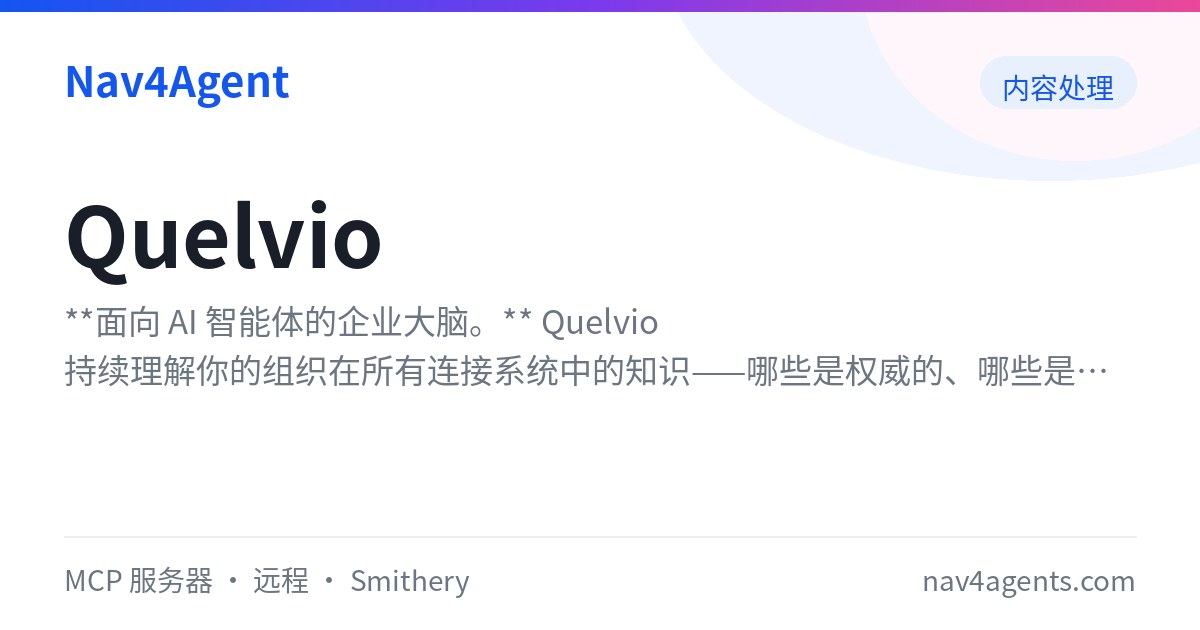
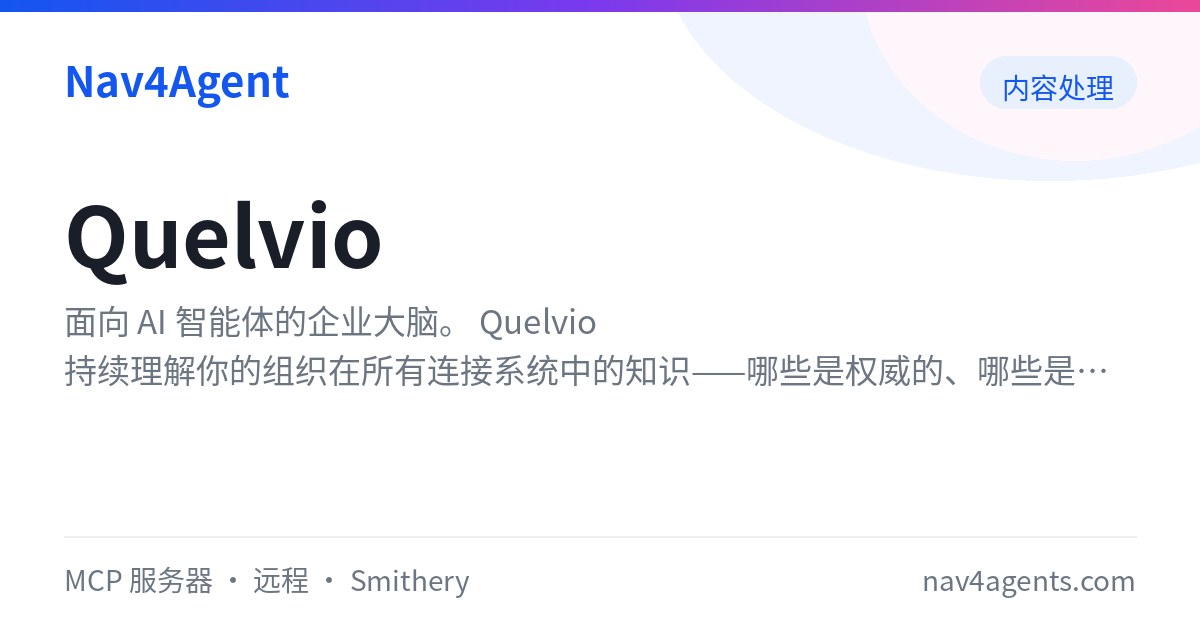
polish: 译文去 Markdown 符号（纯文本展示位）+ 分享图同步更新

Changed region(s): [[0.0308, 0.4825, 0.555, 0.5429]]

diff --git a/src/app/mcp/[slug]/page.tsx b/src/app/mcp/[slug]/page.tsx
@@ -5,7 +5,7 @@ import { ArrowLeft, ExternalLink, Star, Terminal, Zap, Globe, Server, Settings }
 import { getAllMcp } from '@/lib/data/mcp';
 import { getMcpDetail } from '@/lib/data/mcpDetails';
 import { buildMcpMetadata, ogImage } from '@/lib/seo';
-import { pickZh } from '@/lib/i18n';
+import { displayDesc } from '@/lib/i18n';
 import CopyButton from '@/components/CopyButton';
 import FavoriteButton from '@/components/FavoriteButton';
 import HiddenShareImage from '@/components/HiddenShareImage';
@@ -93,7 +93,7 @@ export default function McpDetailPage({ params }: { params: { slug: string } }) 
               <FavoriteButton type="mcp" itemId={mcp.id} />
             </div>
 
-            <p className="text-gray-600 leading-relaxed">{pickZh(mcp.descriptionZh, mcp.description)}</p>
+            <p className="text-gray-600 leading-relaxed">{displayDesc(mcp.descriptionZh, mcp.description)}</p>
           </div>
 
           {/* 工具能力（真实数据） */}
@@ -109,7 +109,7 @@ export default function McpDetailPage({ params }: { params: { slug: string } }) 
                   <div key={i} className="bg-gray-50 rounded-lg px-4 py-3">
                     <code className="text-blue-700 font-mono text-sm font-semibold">{tool.name}</code>
                     {tool.description && (
-                      <p className="text-gray-600 text-sm mt-1 leading-relaxed">{pickZh(tool.descriptionZh, tool.description)}</p>
+                      <p className="text-gray-600 text-sm mt-1 leading-relaxed">{displayDesc(tool.descriptionZh, tool.description)}</p>
                     )}
                   </div>
                 ))}
@@ -153,7 +153,7 @@ export default function McpDetailPage({ params }: { params: { slug: string } }) 
                         {env.name}
                         {env.required && <span className="text-red-500 ml-1" title="必填">*</span>}
                       </code>
-                      <span className="text-gray-500 text-sm">{pickZh(env.descriptionZh, env.description) || '——'}</span>
+                      <span className="text-gray-500 text-sm">{displayDesc(env.descriptionZh, env.description) || '——'}</span>
                     </div>
                   ))}
                 </div>

diff --git a/src/lib/seo.ts b/src/lib/seo.ts
@@ -1,6 +1,6 @@
 import type { Metadata } from 'next';
 import type { McpServer, Skill } from '@/lib/data/types';
-import { pickZh } from '@/lib/i18n';
+import { displayDesc } from '@/lib/i18n';
 
 // 站点级 SEO / 分享配置（微信、社交平台卡片统一从这里出）
 export const SITE_URL = 'https://nav4agents.com';
@@ -55,7 +55,7 @@ const sharedTwitter = (title: string, description: string, image: string): Metad
 /** MCP 详情页元数据 */
 export function buildMcpMetadata(mcp: McpServer): Metadata {
   const title = `${mcp.name} - MCP 服务器`;
-  const description = cleanText(pickZh(mcp.descriptionZh, mcp.description), 92) + `｜${mcp.category} · 一键复制安装命令 · Nav4Agent`;
+  const description = cleanText(displayDesc(mcp.descriptionZh, mcp.description), 92) + `｜${mcp.category} · 一键复制安装命令 · Nav4Agent`;
   const url = `${SITE_URL}/mcp/${mcp.slug}`;
   const image = ogImage.mcp(mcp.slug);
   return {
@@ -70,7 +70,7 @@ export function buildMcpMetadata(mcp: McpServer): Metadata {
 /** Skill 详情页元数据 */
 export function buildSkillMetadata(skill: Skill): Metadata {
   const title = `${skill.name} - AI Skill`;
-  const description = cleanText(pickZh(skill.descriptionZh, skill.description), 92) + `｜${skill.category} · 装进 Claude / Cursor 即用 · Nav4Agent`;
+  const description = cleanText(displayDesc(skill.descriptionZh, skill.description), 92) + `｜${skill.category} · 装进 Claude / Cursor 即用 · Nav4Agent`;
   const url = `${SITE_URL}/skills/${skill.slug}`;
   const image = ogImage.skill(skill.slug);
   return {

diff --git a/src/app/page.tsx b/src/app/page.tsx
@@ -2,7 +2,7 @@ import Link from 'next/link';
 import { getHomeDataSync } from '@/lib/data/home';
 import { getAllSubscriptions } from '@/lib/data/subscriptions';
 import { ogImage } from '@/lib/seo';
-import { pickZh } from '@/lib/i18n';
+import { displayDesc } from '@/lib/i18n';
 import HiddenShareImage from '@/components/HiddenShareImage';
 
 // 首页：服务端渲染（SSG）——首屏即含完整内容 + OG 标签，微信/搜索爬虫可读
@@ -125,7 +125,7 @@ export default function Home() {
                   <span className="text-xs text-gray-400">⭐ {item.stars}</span>
                 </div>
                 <h3 className="text-sm font-semibold text-gray-800 mb-1">{item.name}</h3>
-                <p className="text-xs text-gray-500 line-clamp-2">{pickZh(item.descriptionZh, item.description)}</p>
+                <p className="text-xs text-gray-500 line-clamp-2">{displayDesc(item.descriptionZh, item.description)}</p>
               </Link>
             ))}
           </div>
@@ -147,7 +147,7 @@ export default function Home() {
                   <span className="text-xs text-gray-400">👤 {item.usage}</span>
                 </div>
                 <h3 className="text-sm font-semibold text-gray-800 mb-1">{item.name}</h3>
-                <p className="text-xs text-gray-500 line-clamp-2">{pickZh(item.descriptionZh, item.description)}</p>
+                <p className="text-xs text-gray-500 line-clamp-2">{displayDesc(item.descriptionZh, item.description)}</p>
               </Link>
             ))}
           </div>

diff --git a/src/app/mcp/McpListClient.tsx b/src/app/mcp/McpListClient.tsx
@@ -5,7 +5,7 @@ import Link from 'next/link';
 import { Star, ExternalLink, Loader2 } from 'lucide-react';
 import { getMcpServers, getMcpCategories } from '@/lib/data/mcp';
 import { addFavorite, removeFavorite, getFavoriteIds } from '@/lib/data/favorites';
-import { pickZh } from '@/lib/i18n';
+import { displayDesc } from '@/lib/i18n';
 import type { McpServer } from '@/lib/data/types';
 
 const typeLabels: Record<string, string> = {
@@ -157,7 +157,7 @@ export default function McpListClient() {
                       {typeLabels[item.type] || item.type}
                     </span>
                   </div>
-                  <p className="text-sm text-gray-600 mb-2 sm:mb-3 line-clamp-2">{pickZh(item.descriptionZh, item.description)}</p>
+                  <p className="text-sm text-gray-600 mb-2 sm:mb-3 line-clamp-2">{displayDesc(item.descriptionZh, item.description)}</p>
                   <div className="flex flex-wrap items-center gap-x-3 gap-y-1 text-xs text-gray-500">
                     <span className="flex items-center gap-1">
                       <Star className="w-3 h-3" /> {item.stars > 0 ? item.stars.toLocaleString() : '官方收录'}

diff --git a/src/app/skills/SkillsListClient.tsx b/src/app/skills/SkillsListClient.tsx
@@ -5,7 +5,7 @@ import Link from 'next/link';
 import { User, Loader2 } from 'lucide-react';
 import { getSkills, getSkillCategories } from '@/lib/data/skills';
 import { addFavorite, removeFavorite, getFavoriteIds } from '@/lib/data/favorites';
-import { pickZh } from '@/lib/i18n';
+import { displayDesc } from '@/lib/i18n';
 import type { Skill } from '@/lib/data/types';
 
 export default function SkillsListClient() {
@@ -140,7 +140,7 @@ export default function SkillsListClient() {
                       {item.source}
                     </span>
                   </div>
-                  <p className="text-sm text-gray-600 mb-2 sm:mb-3 line-clamp-2">{pickZh(item.descriptionZh, item.description)}</p>
+                  <p className="text-sm text-gray-600 mb-2 sm:mb-3 line-clamp-2">{displayDesc(item.descriptionZh, item.description)}</p>
                   <div className="flex flex-wrap items-center gap-x-3 gap-y-1 text-xs text-gray-500">
                     <span className="flex items-center gap-1">
                       <User className="w-3 h-3" /> {item.usage.toLocaleString()} 次使用

diff --git a/src/app/favorites/page.tsx b/src/app/favorites/page.tsx
@@ -4,7 +4,7 @@ import { useState, useEffect } from 'react';
 import Link from 'next/link';
 import { Star, Loader2, ExternalLink } from 'lucide-react';
 import { getFavorites, removeFavorite } from '@/lib/data/favorites';
-import { pickZh } from '@/lib/i18n';
+import { displayDesc } from '@/lib/i18n';
 import type { FavoriteItem, FavoriteType } from '@/lib/data/types';
 
 export default function FavoritesPage() {
@@ -63,7 +63,7 @@ export default function FavoritesPage() {
   };
 
   const getItemDesc = (item: FavoriteItem) => {
-    return item.skill ? pickZh(item.skill.descriptionZh, item.skill.description) : item.mcp ? pickZh(item.mcp.descriptionZh, item.mcp.description) : item.subscription?.description || '';
+    return item.skill ? displayDesc(item.skill.descriptionZh, item.skill.description) : item.mcp ? displayDesc(item.mcp.descriptionZh, item.mcp.description) : item.subscription?.description || '';
   };
 
   return (

diff --git a/src/lib/i18n.ts b/src/lib/i18n.ts
@@ -5,6 +5,22 @@ export const pickZh = (zh?: string | null, en?: string | null): string => {
   return z || (en || '').trim();
 };
 
+/** 去掉 Markdown 语法符号（用于纯文本展示位：列表/卡片/描述，避免露出 `、**、[x](url)） */
+export const stripMd = (s?: string | null): string => {
+  const t = (s || '').trim();
+  if (!t) return '';
+  return t
+    .replace(/\[([^\]]+)\]\([^)]*\)?/g, '$1')
+    .replace(/`([^`]+)`/g, '$1')
+    .replace(/\*\*([^*]+)\*\*/g, '$1')
+    .replace(/__([^_]+)__/g, '$1')
+    .replace(/`/g, '')
+    .trim();
+};
+
+/** 描述展示助手：中文优先 + 去 Markdown 符号 */
+export const displayDesc = (zh?: string | null, en?: string | null): string => stripMd(pickZh(zh, en));
+
 /** 搜索匹配用：把中英文字段拼一起（中英双语都能搜到） */
 export const searchBlob = (...parts: Array<string | null | undefined>): string =>
   parts

diff --git a/src/app/skills/[slug]/page.tsx b/src/app/skills/[slug]/page.tsx
@@ -6,7 +6,7 @@ import Markdown from 'react-markdown';
 import remarkGfm from 'remark-gfm';
 import { getAllSkills } from '@/lib/data/skills';
 import { buildSkillMetadata, ogImage } from '@/lib/seo';
-import { pickZh } from '@/lib/i18n';
+import { pickZh, displayDesc } from '@/lib/i18n';
 import CopyButton from '@/components/CopyButton';
 import FavoriteButton from '@/components/FavoriteButton';
 import HiddenShareImage from '@/components/HiddenShareImage';
@@ -87,7 +87,7 @@ export default function SkillDetailPage({ params }: { params: { slug: string } }
           </div>
         </div>
 
-        <p className="text-gray-600 leading-relaxed text-sm sm:text-base">{pickZh(skill.descriptionZh, skill.description)}</p>
+        <p className="text-gray-600 leading-relaxed text-sm sm:text-base">{displayDesc(skill.descriptionZh, skill.description)}</p>
       </div>
 
       {/* 操作按钮 */}

diff --git a/scripts/gen_og_images.py b/scripts/gen_og_images.py
@@ -53,6 +53,11 @@ def clean(s, limit=None):
         return ""
     s = EMOJI_RE.sub("", str(s))
     s = re.sub(r"^(description|name|title)\s*[:：]\s*", "", s.strip(), flags=re.IGNORECASE)
+    # 去 Markdown 语法符号（卡片是纯文本展示）
+    s = re.sub(r"\[([^\]]+)\]\([^)]*\)?", r"\1", s)
+    s = re.sub(r"`([^`]+)`", r"\1", s)
+    s = s.replace("`", "")
+    s = re.sub(r"\*\*([^*]+)\*\*", r"\1", s)
     s = re.sub(r"\s+", " ", s).strip()
     if limit and len(s) > limit:
         s = s[: limit - 1].rstrip() + "…"
